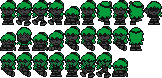
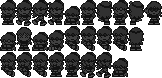
Implement palette system

diff --git a/src/nasr.c b/src/nasr.c
@@ -26,6 +26,7 @@ typedef struct Texture
 {
     unsigned int width;
     unsigned int height;
+    unsigned int indexed;
 } Texture;
 
 static float vertices[] =
@@ -43,7 +44,7 @@ static unsigned int indices[] =
     1, 2, 3    // second triangle
 };
 
-#define NUMBER_O_BASE_SHADERS 2
+#define NUMBER_O_BASE_SHADERS 3
 
 typedef uint32_t hash_t;
 typedef struct { char * string; hash_t hash; } TextureMapKey;
@@ -54,7 +55,8 @@ static GLFWwindow * window;
 static unsigned int VAO;
 static unsigned int rect_shader;
 static unsigned int sprite_shader;
-static unsigned int * base_shaders[ NUMBER_O_BASE_SHADERS ] = { &rect_shader, &sprite_shader };
+static unsigned int indexed_sprite_shader;
+static unsigned int * base_shaders[ NUMBER_O_BASE_SHADERS ] = { &rect_shader, &sprite_shader, &indexed_sprite_shader };
 static NasrGraphic * graphics = NULL;
 static int max_graphics = 0;
 static int num_o_graphics = 0;
@@ -82,6 +84,9 @@ static GLint magnified_canvas_y = 0;
 static int selected_texture = -1;
 static GLint default_sample_type = GL_LINEAR;
 static TextureMapEntry * texture_map;
+static GLint default_indexed_mode = GL_RGBA;
+static unsigned int palette_texture_id;
+static Texture palette_texture;
 
 static void FramebufferSizeCallback( GLFWwindow * window, int width, int height );
 static unsigned int GenerateShaderProgram( const NasrShader * shaders, int shadersnum );
@@ -99,6 +104,9 @@ static int * GetHeld( int id );
 static GLint GetGLSamplingType( int sampling );
 static TextureMapEntry * hash_find_entry( const char * needle_string, hash_t needle_hash );
 static uint32_t hash_string( const char * key );
+static GLint GetGLRGBA( int indexed );
+static unsigned char * LoadTextureFileData( char * filename, unsigned int * width, unsigned int * height, int sampling, int indexed );
+static void AddTexture( Texture * texture, unsigned int texture_id, unsigned char * data, unsigned int width, unsigned int height, int sampling, int indexed );
 
 void NasrColorPrint( const NasrColor * c )
 {
@@ -145,11 +153,12 @@ int NasrInit
     float canvas_height,
     int init_max_graphics,
     int init_max_textures,
-    int sample_type
+    int sample_type,
+    int default_indexed_type
 )
 {
     default_sample_type = GetGLSamplingType( sample_type );
-
+    default_indexed_mode = GetGLRGBA( default_indexed_type );
     glfwInit();
 
     // Init window
@@ -238,9 +247,19 @@ int NasrInit
             "#version 330 core\nout vec4 final_color;\n\nin vec2 texture_coords;\n\nuniform sampler2D texture_data;\nuniform float opacity;\n  \nvoid main()\n{\n    final_color = texture( texture_data, texture_coords );\n    final_color.a *= opacity;\n}"
         }
     };
+
+    NasrShader indexed_sprite_shaders[] =
+    {
+        vertex_shader,
+        {
+            NASR_SHADER_FRAGMENT,
+            "#version 330 core\nout vec4 final_color;\n\nin vec2 texture_coords;\n\nuniform sampler2D texture_data;\nuniform sampler2D palette_data;\nuniform float palette_id;\nuniform float opacity;\n\nvoid main()\n{\nvec4 index = texture( texture_data, texture_coords );\nfloat palette = palette_id / 256.0;\nfinal_color = texture( palette_data, vec2( index.r / 16.0, palette ) );\nfinal_color.a *= opacity;\n}"
+        }
+    };
     
     rect_shader = GenerateShaderProgram( rect_shaders, 2 );
     sprite_shader = GenerateShaderProgram( sprite_shaders, 2 );
+    indexed_sprite_shader = GenerateShaderProgram( indexed_sprite_shaders, 2 );
 
     // Init camera
     NasrResetCamera();
@@ -263,6 +282,14 @@ int NasrInit
     texture_map = calloc( max_textures, sizeof( TextureMapEntry ) );
 
     return 0;
+};
+
+void NasrSetPalette( const char * filename )
+{
+    unsigned int width;
+    unsigned int height;
+    const unsigned char * data = LoadTextureFileData( filename, &width, &height, NASR_SAMPLING_NEAREST, NASR_INDEXED_NO );
+    AddTexture( &palette_texture, palette_texture_id, data, width, height, NASR_SAMPLING_NEAREST, NASR_INDEXED_NO );
 };
 
 void NasrClose( void )
@@ -346,9 +373,10 @@ void NasrUpdate( void )
             {
                 const NasrGraphicSprite * sprite = &graphics[ i ].data.sprite;
                 unsigned int texture_id = sprite->texture;
+                const unsigned int shader = textures[ texture_id ].indexed ? indexed_sprite_shader : sprite_shader;
                 const NasrRect * src = &sprite->src;
                 const NasrRect * dest = &sprite->dest;
-                glUseProgram( sprite_shader );
+                glUseProgram( shader );
 
                 // Src Coords
                 if ( sprite->flip_x )
@@ -385,16 +413,29 @@ void NasrUpdate( void )
                 glm_rotate( model, DEGREES_TO_RADIANS( sprite->rotation_y ), yrot );
                 vec3 zrot = { 1.0, 0.0, 0.0 };
                 glm_rotate( model, DEGREES_TO_RADIANS( sprite->rotation_z ), zrot );
-                unsigned int model_location = glGetUniformLocation( sprite_shader, "model" );
+                unsigned int model_location = glGetUniformLocation( shader, "model" );
                 glUniformMatrix4fv( model_location, 1, GL_FALSE, ( float * )( model ) );
 
-                GLint opacity_location = glGetUniformLocation( sprite_shader, "opacity" );
+                if ( textures[ texture_id ].indexed )
+                {
+                    GLint palette_id_location = glGetUniformLocation( shader, "palette_id" );
+                    glUniform1f( palette_id_location, ( float )( sprite->palette ) );
+                }
+
+                GLint opacity_location = glGetUniformLocation( shader, "opacity" );
                 glUniform1f( opacity_location, ( float )( sprite->opacity ) );
 
-                GLint texture_data_location = glGetUniformLocation( sprite_shader, "texture_data" );
+                GLint texture_data_location = glGetUniformLocation( shader, "texture_data" );
                 glActiveTexture( GL_TEXTURE0 );
                 glBindTexture( GL_TEXTURE_2D, texture_ids[ texture_id ] );
                 glUniform1i( texture_data_location, 0 );
+                if ( textures[ texture_id ].indexed )
+                {
+                    GLint palette_data_location = glGetUniformLocation(shader, "palette_data");
+                    glActiveTexture(GL_TEXTURE1 );
+                    glBindTexture(GL_TEXTURE_2D, palette_texture_id );
+                    glUniform1i(palette_data_location, 1);
+                }
                 SetupVertices();
             }
             break;
@@ -809,7 +850,8 @@ int NasrGraphicsAddSprite
     float rotation_x,
     float rotation_y,
     float rotation_z,
-    float opacity
+    float opacity,
+    unsigned char palette
 )
 {
     if ( num_o_graphics < max_graphics )
@@ -824,6 +866,7 @@ int NasrGraphicsAddSprite
         graphics[ num_o_graphics ].data.sprite.rotation_y = rotation_y;
         graphics[ num_o_graphics ].data.sprite.rotation_z = rotation_z;
         graphics[ num_o_graphics ].data.sprite.opacity = opacity;
+        graphics[ num_o_graphics ].data.sprite.palette = palette;
         return num_o_graphics++;
     }
     else
@@ -834,10 +877,10 @@ int NasrGraphicsAddSprite
 
 int NasrLoadFileAsTexture( char * filename )
 {
-    return NasrLoadFileAsTextureEx( filename, NASR_SAMPLING_DEFAULT );
+    return NasrLoadFileAsTextureEx( filename, NASR_SAMPLING_DEFAULT, NASR_INDEXED_DEFAULT );
 };
 
-int NasrLoadFileAsTextureEx( char * filename, int sampling )
+int NasrLoadFileAsTextureEx( char * filename, int sampling, int indexed )
 {
     const hash_t needle_hash = hash_string( filename );
     TextureMapEntry * entry = hash_find_entry( filename, needle_hash );
@@ -850,24 +893,24 @@ int NasrLoadFileAsTextureEx( char * filename, int sampling )
     entry->key.hash = needle_hash;
     entry->value = texture_count;
 
-    int channels;
-    unsigned char * data = stbi_load( filename, &textures[ texture_count ].width, &textures[ texture_count ].height, &channels, STBI_rgb_alpha );
-    if ( data == NULL )
+    unsigned int width;
+    unsigned int height;
+    unsigned char * data = LoadTextureFileData( filename, &width, &height, sampling, indexed );
+    if ( !data )
     {
-        printf( "Couldn’t load texture file.\n" );
         return -1;
     }
-    const int id = NasrAddTextureEx( data, textures[ texture_count ].width, textures[ texture_count ].height, sampling );
+    const int id = NasrAddTextureEx( data, width, height, sampling, indexed );
     free( data );
     return id;
 };
 
 int NasrAddTexture( unsigned char * data, unsigned int width, unsigned int height )
 {
-    return NasrAddTextureEx( data, width, height, NASR_SAMPLING_DEFAULT );
+    return NasrAddTextureEx( data, width, height, NASR_SAMPLING_DEFAULT, NASR_INDEXED_DEFAULT );
 };
 
-int NasrAddTextureEx( unsigned char * data, unsigned int width, unsigned int height, int sampling )
+int NasrAddTextureEx( unsigned char * data, unsigned int width, unsigned int height, int sampling, int indexed )
 {
     if ( texture_count >= max_textures )
     {
@@ -875,22 +918,46 @@ int NasrAddTextureEx( unsigned char * data, unsigned int width, unsigned int hei
         return -1;
     }
 
-    const GLint sample_type = GetGLSamplingType( sampling );
+    AddTexture( &textures[ texture_count ], texture_ids[ texture_count ], data, width, height, sampling, indexed );
+    return texture_count++;
+};
 
-    textures[ texture_count ].width = width;
-    textures[ texture_count ].height = height;
-    glBindTexture( GL_TEXTURE_2D, texture_ids[ texture_count ] );
-    glTexImage2D( GL_TEXTURE_2D, 0, GL_RGBA, width, height, 0, GL_RGBA, GL_UNSIGNED_BYTE, data );
+static unsigned char * LoadTextureFileData( char * filename, unsigned int * width, unsigned int * height, int sampling, int indexed )
+{
+    int channels;
+    unsigned char * data = stbi_load( filename, width, height, &channels, STBI_rgb_alpha );
+    if ( data == NULL )
+    {
+        printf( "Couldn’t load texture file.\n" );
+        return 0;
+    }
+    return data;
+};
+
+static void AddTexture( Texture * texture, unsigned int texture_id, unsigned char * data, unsigned int width, unsigned int height, int sampling, int indexed )
+{
+    const GLint sample_type = GetGLSamplingType( sampling );
+    const GLint index_type = GetGLRGBA( indexed );
+
+    texture->width = width;
+    texture->height = height;
+    texture->indexed = index_type == GL_R8;
+    glBindTexture( GL_TEXTURE_2D, texture_id );
+    glTexImage2D( GL_TEXTURE_2D, 0, index_type, width, height, 0, GL_RGBA, GL_UNSIGNED_BYTE, data );
     glTexParameteri( GL_TEXTURE_2D, GL_TEXTURE_WRAP_S, GL_MIRRORED_REPEAT );
     glTexParameteri( GL_TEXTURE_2D, GL_TEXTURE_WRAP_T, GL_MIRRORED_REPEAT );
     glTexParameteri( GL_TEXTURE_2D, GL_TEXTURE_MIN_FILTER, sample_type );
     glTexParameteri( GL_TEXTURE_2D, GL_TEXTURE_MAG_FILTER, sample_type );
-    return texture_count++;
 };
 
 int NasrAddTextureBlank( unsigned int width, unsigned int height )
 {
     return NasrAddTexture( 0, width, height );
+};
+
+int NasrAddTextureBlankEx( unsigned int width, unsigned int height, int sampling, int indexed )
+{
+    return NasrAddTextureEx( 0, width, height, sampling, indexed );
 };
 
 void NasrSetTextureAsTarget( int texture )
@@ -1385,4 +1452,14 @@ static uint32_t hash_string( const char * key )
         hash *= 16777619;
     }
     return hash % max_textures;
+};
+
+static GLint GetGLRGBA( int indexed )
+{
+    switch ( indexed )
+    {
+        case ( NASR_INDEXED_YES ): return GL_R8;
+        case ( NASR_INDEXED_NO ): return GL_RGBA;
+        default: return default_indexed_mode;
+    }
 };

diff --git a/src/nasr_test.c b/src/nasr_test.c
@@ -18,7 +18,8 @@ typedef enum Input {
 
 void NasrTestRun( void )
 {
-    NasrInit( "Nasringine 0.1", 520, 320, 1024, 1024, NASR_SAMPLING_NEAREST );
+    NasrInit( "Nasringine 0.1", 520, 320, 1024, 1024, NASR_SAMPLING_NEAREST, NASR_INDEXED_YES );
+    NasrSetPalette( "assets/palette.png" );
     NasrInput inputs[] =
     {
         { INPUT_RIGHT, NASR_KEY_RIGHT },
@@ -116,8 +117,8 @@ void NasrTestRun( void )
     );
 
 
-    int nasrin_texture1 = NasrLoadFileAsTextureEx( "assets/nasrin.png", NASR_SAMPLING_LINEAR );
-    int nasrin_texture2 = NasrLoadFileAsTextureEx( "assets/nasrin.png", NASR_SAMPLING_LINEAR );
+    int nasrin_texture1 = NasrLoadFileAsTextureEx( "assets/nasrin.png", NASR_SAMPLING_LINEAR, NASR_INDEXED_NO );
+    int nasrin_texture2 = NasrLoadFileAsTextureEx( "assets/nasrin.png", NASR_SAMPLING_LINEAR, NASR_INDEXED_NO );
     int autumn_texture = NasrLoadFileAsTexture( "assets/autumn.png" );
     printf( "%d, %d, %d\n", nasrin_texture1, nasrin_texture2, autumn_texture );
     NasrClearTextures();
@@ -138,8 +139,8 @@ void NasrTestRun( void )
             texdata[ i ] = 0xFF0c4cc8;
         }
     }
-    const int texture = NasrAddTexture( texdata, texwidth, texheight );
-    int blank_board = NasrAddTextureBlank( 256, 256 );
+    const int texture = NasrAddTextureEx( texdata, texwidth, texheight, NASR_SAMPLING_NEAREST, NASR_INDEXED_NO );
+    int blank_board = NasrAddTextureBlankEx( 256, 256, NASR_SAMPLING_NEAREST, NASR_INDEXED_NO );
     NasrSetTextureAsTarget( blank_board );
     NasrRect rect = { 0.0f, 0.0f, 256.0f, 256.0f };
     NasrColor color = { 255.0f, 0.0f, 255.0f, 255.0f };
@@ -180,11 +181,12 @@ void NasrTestRun( void )
         0.0f,
         0.0f,
         0.0f,
-        1.0f
+        1.0f,
+        0
     );
 
-    nasrin_texture1 = NasrLoadFileAsTextureEx( "assets/nasrin.png", NASR_SAMPLING_LINEAR );
-    nasrin_texture2 = NasrLoadFileAsTextureEx( "assets/nasrin.png", NASR_SAMPLING_LINEAR );
+    nasrin_texture1 = NasrLoadFileAsTextureEx( "assets/nasrin.png", NASR_SAMPLING_LINEAR, NASR_INDEXED_NO );
+    nasrin_texture2 = NasrLoadFileAsTextureEx( "assets/nasrin.png", NASR_SAMPLING_LINEAR, NASR_INDEXED_NO );
     autumn_texture = NasrLoadFileAsTexture( "assets/autumn.png" );
     printf( "%d, %d, %d\n", nasrin_texture1, nasrin_texture2, autumn_texture );
     const NasrRect nasrin_src = { 0.0f, 0.0f, 1083.0f, 1881.0f };
@@ -199,7 +201,24 @@ void NasrTestRun( void )
         0.0f,
         0.0f,
         0.0f,
-        1.0f
+        1.0f,
+        0
+    );
+
+    const NasrRect autumn_src = { 0.0f, 0.0f, 16.0f, 25.0f };
+    const NasrRect autumn_dest = { 200.0f, 32.0f, 16.0f, 25.0f };
+    const int autumnid = NasrGraphicsAddSprite
+    (
+        autumn_texture,
+        autumn_src,
+        autumn_dest,
+        0,
+        0,
+        0.0f,
+        0.0f,
+        0.0f,
+        1.0f,
+        128
     );
 
     while ( running )

diff --git a/src/include/nasr.h b/src/include/nasr.h
@@ -72,6 +72,7 @@ typedef struct NasrGraphicSprite
     float rotation_y;
     float rotation_z;
     float opacity;
+    unsigned char palette;
 } NasrGraphicSprite;
 
 typedef union NasrGraphicData
@@ -229,6 +230,10 @@ typedef struct NasrInput
 #define NASR_SAMPLING_NEAREST 1
 #define NASR_SAMPLING_LINEAR  2
 
+#define NASR_INDEXED_DEFAULT 0
+#define NASR_INDEXED_NO      1
+#define NASR_INDEXED_YES     2
+
 int NasrHeld( int id );
 void NasrRegisterInputs( const NasrInput * inputs, int num_o_inputs );
 
@@ -239,8 +244,10 @@ int NasrInit
     float canvas_height,
     int max_graphics,
     int init_max_textures,
-    int sample_type
+    int sample_type,
+    int default_indexed_type
 );
+void NasrSetPalette( const char * filename );
 void NasrClose( void );
 void NasrClearTextures( void );
 void NasrUpdate( void );
@@ -274,14 +281,16 @@ int NasrGraphicsAddSprite
     float rotation_x,
     float rotation_y,
     float rotation_z,
-    float opacity
+    float opacity,
+    unsigned char palette
 );
 
 int NasrLoadFileAsTexture( char * filename );
-int NasrLoadFileAsTextureEx( char * filename, int sampling );
+int NasrLoadFileAsTextureEx( char * filename, int sampling, int indexed );
 int NasrAddTexture( unsigned char * data, unsigned int width, unsigned int height );
-int NasrAddTextureEx( unsigned char * data, unsigned int width, unsigned int height, int sampling );
+int NasrAddTextureEx( unsigned char * data, unsigned int width, unsigned int height, int sampling, int indexed );
 int NasrAddTextureBlank( unsigned int width, unsigned int height );
+int NasrAddTextureBlankEx( unsigned int width, unsigned int height, int sampling, int indexed );
 void NasrGetTexturePixels( unsigned int texture, void * pixels );
 void NasrCopyTextureToTexture( unsigned int src, unsigned int dest, NasrRectInt srccoords, NasrRectInt destcoords );
 void NasrApplyTextureToPixelData( unsigned int texture, void * dest, NasrRectInt srccoords, NasrRectInt destcoords );
